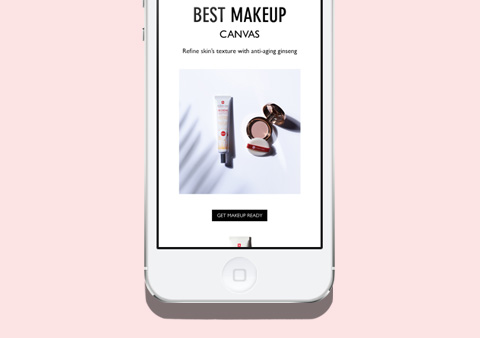
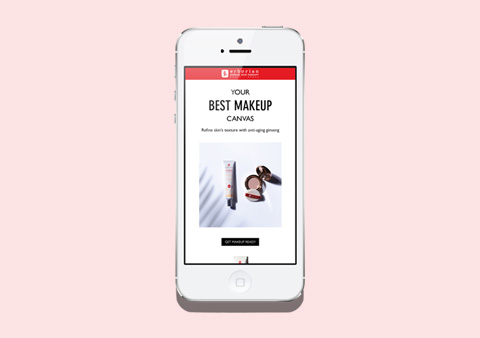
fixed responsive on mobile

Changed region(s): [[0.2812, 0.0, 0.7188, 0.9467]]

diff --git a/index.html b/index.html
@@ -90,18 +90,18 @@
 
       <figure class="gallery-item">
           <div class="imgWrap">
-            <a href="TerreInvite.html">
-              <img class="thumbnail" src="include/img/gallery/thumbnails/480w/TerreInvite_thumb_480.jpg"/>
-              <p class="imgDescription">terre de lumiere digital invite</p>
+            <a href="DivineGenericMailer.html">
+              <img class="thumbnail" src="include/img/gallery/thumbnails/480w/DivineGenericThumb_480.jpg"/>
+              <p class="imgDescription">hand care mailer</p>
             </a>
           </div>
       </figure>
 
       <figure class="gallery-item">
           <div class="imgWrap">
-            <a href="DivineGenericMailer.html">
-              <img class="thumbnail" src="include/img/gallery/thumbnails/480w/DivineGenericThumb_480.jpg"/>
-              <p class="imgDescription">hand care mailer</p>
+            <a href="TerreInvite.html">
+              <img class="thumbnail" src="include/img/gallery/thumbnails/480w/TerreInvite_thumb_480.jpg"/>
+              <p class="imgDescription">terre de lumiere digital invite</p>
             </a>
           </div>
       </figure>

diff --git a/ErborianEmails.html b/ErborianEmails.html
@@ -3,6 +3,7 @@
   <head>
     <title>Amanda O'Brien Design</title>
       <meta charset="utf-8"/>
+      <meta name="viewport" content="width=device-width, initial-scale=1.0">
       <link rel="stylesheet" type="text/css" href="include/page.css"/>
       <script type="text/javascript" src="https://ajax.googleapis.com/ajax/libs/jquery/1.12.0/jquery.min.js"></script>
       <script type="text/javascript" src="include/main.js"></script>

diff --git a/Glow.html b/Glow.html
@@ -3,6 +3,7 @@
   <head>
     <title>Amanda O'Brien Design</title>
       <meta charset="utf-8"/>
+      <meta name="viewport" content="width=device-width, initial-scale=1.0">
       <link rel="stylesheet" type="text/css" href="include/page.css"/>
       <script type="text/javascript" src="https://ajax.googleapis.com/ajax/libs/jquery/1.12.0/jquery.min.js"></script>
       <script type="text/javascript" src="include/main.js"></script>

diff --git a/Gravitational.html b/Gravitational.html
@@ -3,6 +3,7 @@
   <head>
     <title>Amanda O'Brien Design</title>
       <meta charset="utf-8"/>
+      <meta name="viewport" content="width=device-width, initial-scale=1.0">
       <link rel="stylesheet" type="text/css" href="include/page.css"/>
       <script type="text/javascript" src="https://ajax.googleapis.com/ajax/libs/jquery/1.12.0/jquery.min.js"></script>
       <script type="text/javascript" src="include/main.js"></script>

diff --git a/SheaJanMailer.html b/SheaJanMailer.html
@@ -3,6 +3,7 @@
   <head>
     <title>Amanda O'Brien Design</title>
       <meta charset="utf-8"/>
+      <meta name="viewport" content="width=device-width, initial-scale=1.0">
       <link rel="stylesheet" type="text/css" href="include/page.css"/>
       <script type="text/javascript" src="https://ajax.googleapis.com/ajax/libs/jquery/1.12.0/jquery.min.js"></script>
       <script type="text/javascript" src="include/main.js"></script>

diff --git a/StandardLogo.html b/StandardLogo.html
@@ -3,6 +3,7 @@
   <head>
     <title>Amanda O'Brien Design</title>
       <meta charset="utf-8"/>
+      <meta name="viewport" content="width=device-width, initial-scale=1.0">
       <link rel="stylesheet" type="text/css" href="include/page.css"/>
       <script type="text/javascript" src="https://ajax.googleapis.com/ajax/libs/jquery/1.12.0/jquery.min.js"></script>
       <script type="text/javascript" src="include/main.js"></script>

diff --git a/TerreInvite.html b/TerreInvite.html
@@ -3,6 +3,7 @@
   <head>
     <title>Amanda O'Brien Design</title>
       <meta charset="utf-8"/>
+      <meta name="viewport" content="width=device-width, initial-scale=1.0">
       <link rel="stylesheet" type="text/css" href="include/page.css"/>
       <script type="text/javascript" src="https://ajax.googleapis.com/ajax/libs/jquery/1.12.0/jquery.min.js"></script>
       <script type="text/javascript" src="include/main.js"></script>

diff --git a/harmonieMailer.html b/harmonieMailer.html
@@ -3,6 +3,7 @@
   <head>
     <title>Amanda O'Brien Design</title>
       <meta charset="utf-8"/>
+      <meta name="viewport" content="width=device-width, initial-scale=1.0">
       <link rel="stylesheet" type="text/css" href="include/page.css"/>
       <script type="text/javascript" src="https://ajax.googleapis.com/ajax/libs/jquery/1.12.0/jquery.min.js"></script>
       <script type="text/javascript" src="include/main.js"></script>

diff --git a/include/parallax/parallax.css b/include/parallax/parallax.css
@@ -200,7 +200,7 @@ a {
   visibility: hidden;
   opacity: 0;
   margin: 0;
-  padding-top: 169px;
+  padding-top: 157px;
 }
 
 .imgWrap:hover .imgDescription {
